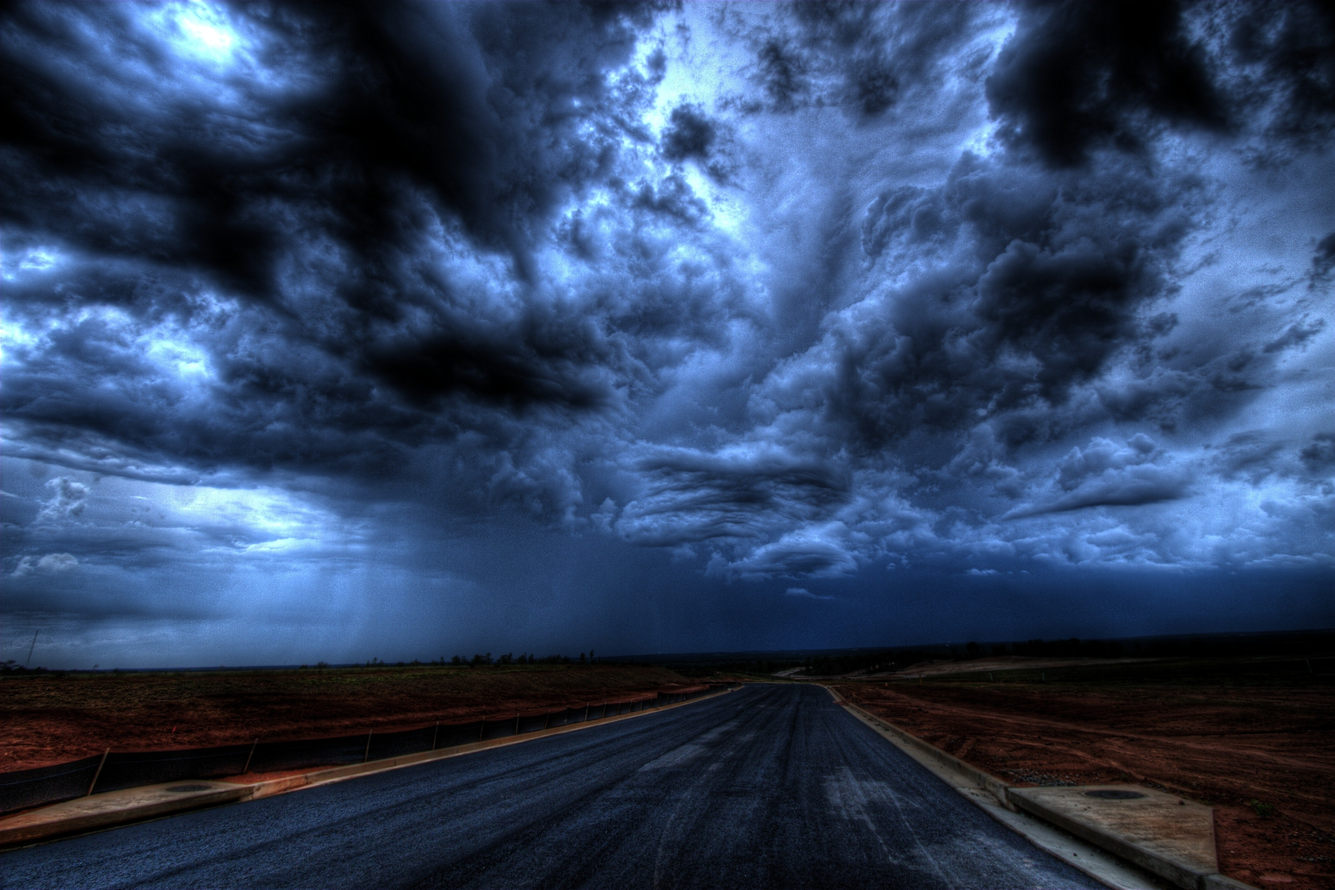
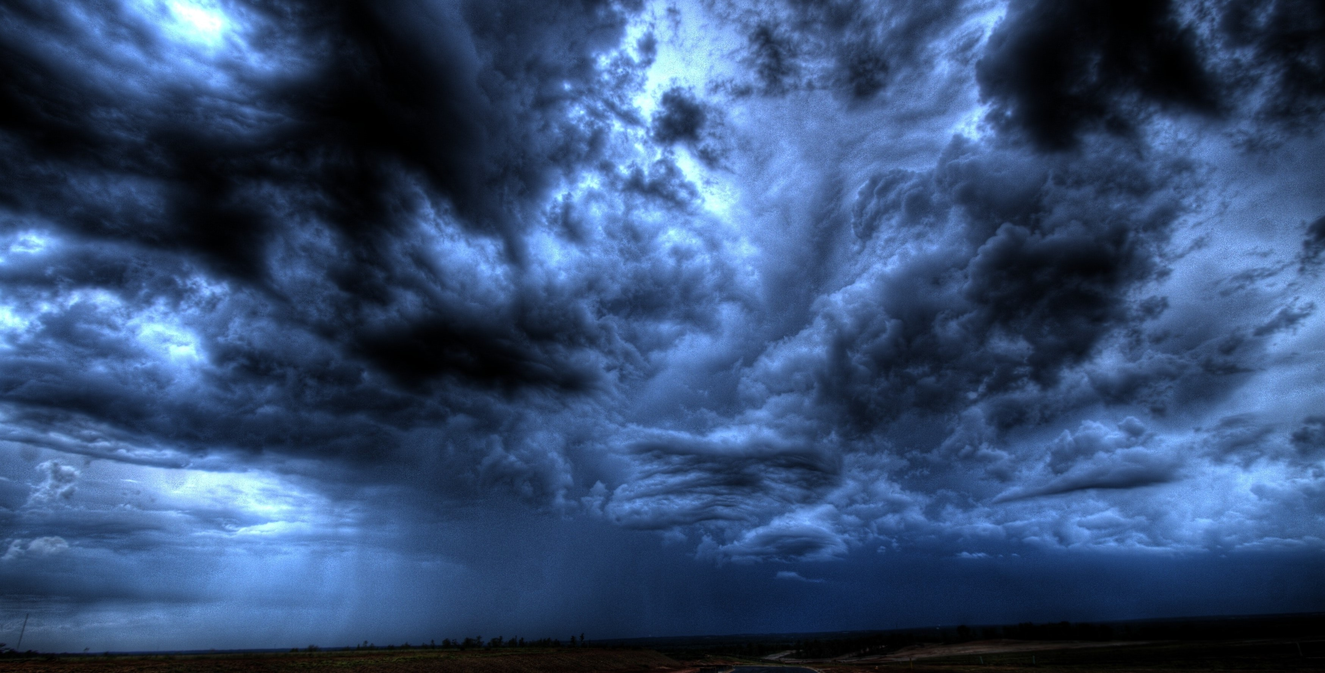
fixed navbar issue

diff --git a/index.html b/index.html
@@ -37,7 +37,7 @@
 		<!-- ================================== Navbar and Header ================================= -->
 		<nav id="home" class="nav-extended nav-header" style="background-color:rgb(12, 34, 54);">
 			<div class="nav-background" style="opacity: 1;">
-				<img class="active responsive-img" crossorigin="anonymous" src="/assets/img/stock/beach-black-and-white-dramatic-horizon-331092.jpg" alt="waves">
+				<img class="active responsive-img" crossorigin="anonymous" src="/assets/img/stock/beach-black-and-white-dramatic-horizon-331092-7.jpg" alt="waves">
 			</div>
 
 			<div>
